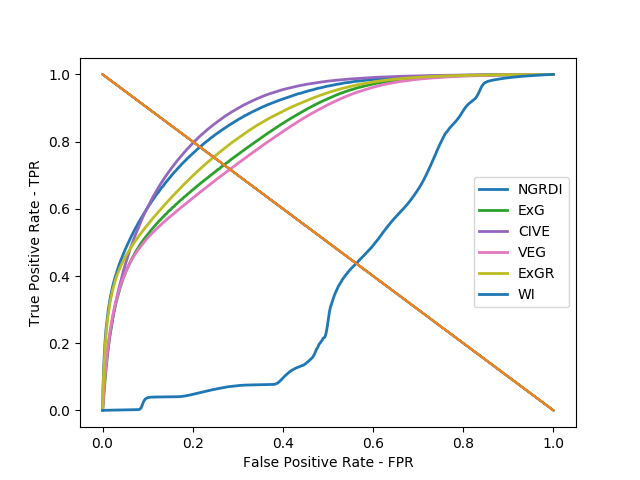
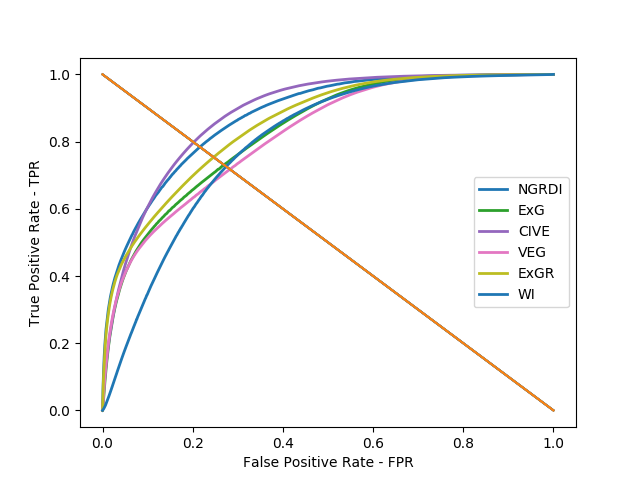
New results for WI + 1

diff --git a/src/indexExtractor.py b/src/indexExtractor.py
@@ -178,7 +178,8 @@ def process(imgs):
 		indices[0] = np.concatenate((indices[0], NGRDI.ravel()))
 		# cv2.normalize(NGRDI, NGRDI, 0.0, 255.0, cv2.NORM_MINMAX)
 		# NGRDI = np.uint8(NGRDI)
-		# cv2.imwrite("NGRDI.jpg", NGRDI)
+		# cv2.imshow("NGRDI.jpg", NGRDI)
+
 		# ExG
 		# ExG = 2*gNorm-rNorm-bNorm
 		ExG = 2*g-r-b
@@ -191,7 +192,6 @@ def process(imgs):
 		# CIVE
 		CIVE = 0.411*R - 0.881*G + 0.385*B + 18.78745
 		CIVE = 1 - cv2.normalize(CIVE, CIVE, 0.0, 1.0, cv2.NORM_MINMAX)
-		#CIVE = cv2.normalize(CIVE, CIVE, 0.0, 1.0, cv2.NORM_MINMAX)
 		indices[2] = np.concatenate((indices[2], CIVE.ravel()))
 		# cv2.normalize(CIVE, CIVE, 0.0, 255.0, cv2.NORM_MINMAX)
 		# CIVE = np.uint8(CIVE)
@@ -214,7 +214,7 @@ def process(imgs):
 		# cv2.imwrite("ExGR.jpg", ExGR)
 
 		# WI
-		WI = Utils.div0((g-b),((r-g)))
+		WI = Utils.div0((g-b),(abs(r-g)+1))
 		cv2.normalize(WI, WI, 0.0, 1.0, cv2.NORM_MINMAX)
 		indices[5] = np.concatenate((indices[5], WI.ravel()))
 		# cv2.normalize(WI, WI, 0.0, 255.0, cv2.NORM_MINMAX)

diff --git a/README.md b/README.md
@@ -20,18 +20,18 @@ No filter results
 |CIVE|0.845|0.579|0.237|0.237|0.763|
 |VEG|0.814|0.187|0.269|0.269|0.731|
 |ExGR|0.816|0.227|0.273|0.273|0.727|
-|WI|0.410|0.495|0.542|0.542|0.458|
+|WI|0.783|0.427|0.278|0.278|0.722|
 
 -------------
 |Method|AUC|EER|FAR|FRR|Accuracy|
 |:----------:|:-------------:|:------:|:------:|:------:|:------:|
-|Arithmetic Mean|0.853|0.334|0.236|0.236|0.764|
-|Geometric mean|0.848|0.010|0.240|0.240|0.760|
+|Arithmetic Mean|0.851|0.325|0.235|0.235|0.765|
+|Geometric mean|0.846|0.008|0.239|0.239|0.761|
 
 -------------
 |Method|Accuracy|
 |:----------:|:-------------:|
-|Majority|0.731|
+|Majority|0.737|
 
 
 Blur results
@@ -43,18 +43,18 @@ Blur results
 |CIVE|0.872|0.608|0.209|0.209|0.791|
 |VEG|0.851|0.287|0.246|0.246|0.754|
 |ExGR|0.878|0.328|0.214|0.214|0.786|
-|WI|0.404|0.492|0.568|0.568|0.432|
+|WI|0.806|0.429|0.265|0.265|0.735|
 
 -------------
 |Method|AUC|EER|FAR|FRR|Accuracy|
 |:----------:|:-------------:|:------:|:------:|:------:|:------:|
-|Arithmetic Mean|0.866|0.413|0.223|0.223|0.777|
-|Geometric mean|0.843|0.104|0.228|0.228|0.772|
+|Arithmetic Mean|0.884|0.397|0.209|0.209|0.791|
+|Geometric mean|0.883|0.071|0.210|0.210|0.790|
 
 -------------
 |Method|Accuracy|
 |:----------:|:-------------:|
-|Majority|0.769|
+|Majority|0.767|
 
 
 Gaussian filter results
@@ -66,18 +66,18 @@ Gaussian filter results
 |CIVE|0.867|0.599|0.216|0.216|0.784|
 |VEG|0.834|0.255|0.257|0.257|0.743|
 |ExGR|0.852|0.291|0.239|0.239|0.761|
-|WI|0.382|0.497|0.614|0.614|0.386|
+|WI|0.795|0.421|0.271|0.271|0.729|
 
 -------------
 |Method|AUC|EER|FAR|FRR|Accuracy|
 |:----------:|:-------------:|:------:|:------:|:------:|:------:|
-|Arithmetic Mean|0.875|0.383|0.217|0.217|0.783|
-|Geometric mean|0.872|0.046|0.219|0.219|0.781|
+|Arithmetic Mean|0.870|0.373|0.221|0.221|0.779|
+|Geometric mean|0.868|0.036|0.222|0.222|0.778|
 
 -------------
 |Method|Accuracy|
 |:----------:|:-------------:|
-|Majority|0.754|
+|Majority|0.753|
 
 
 Mean filter results
@@ -89,18 +89,18 @@ Mean filter results
 |CIVE|0.884|0.606|0.202|0.202|0.798|
 |VEG|0.818|0.265|0.283|0.283|0.717|
 |ExGR|0.852|0.324|0.246|0.246|0.754|
-|WI|0.406|0.495|0.563|0.563|0.437|
+|WI|0.796|0.429|0.274|0.274|0.726|
 
 -------------
 |Method|AUC|EER|FAR|FRR|Accuracy|
 |:----------:|:-------------:|:------:|:------:|:------:|:------:|
-|Arithmetic Mean|0.876|0.401|0.220|0.220|0.780|
-|Geometric mean|0.873|0.073|0.223|0.223|0.777|
+|Arithmetic Mean|0.870|0.391|0.226|0.226|0.774|
+|Geometric mean|0.868|0.059|0.227|0.227|0.773|
 
 -------------
 |Method|Accuracy|
 |:----------:|:-------------:|
-|Majority|0.749|
+|Majority|0.744|
 
 Bilateral filter results
 -------------
@@ -111,18 +111,18 @@ Bilateral filter results
 |CIVE|0.860|0.591|0.225|0.225|0.775|
 |VEG|0.808|0.197|0.278|0.278|0.722|
 |ExGR|0.817|0.231|0.274|0.274|0.726|
-|WI|0.397|0.494|0.599|0.599|0.401|
+|WI|0.784|0.421|0.276|0.276|0.724|
 
 -------------
 |Method|AUC|EER|FAR|FRR|Accuracy|
 |:----------:|:-------------:|:------:|:------:|:------:|:------:|
-|Arithmetic Mean|0.856|0.341|0.234|0.234|0.766|
-|Geometric mean|0.851|0.013|0.239|0.239|0.761|
+|Arithmetic Mean|0.856|0.331|0.232|0.232|0.768|
+|Geometric mean|0.850|0.010|0.236|0.236|0.764|
 
 -------------
 |Method|Accuracy|
 |:----------:|:-------------:|
-|Majority|0.718|
+|Majority|0.736|
 
 
 
@@ -186,18 +186,18 @@ No filter results
 |CIVE|0.838|0.559|0.236|0.236|0.764|
 |VEG|0.783|0.274|0.289|0.289|0.711|
 |ExGR|0.777|0.374|0.302|0.302|0.698|
-|WI|0.405|0.501|0.599|0.599|0.401|
+|WI|0.835|0.399|0.231|0.231|0.769|
 
 -------------
 |Method|AUC|EER|FAR|FRR|Accuracy|
 |:----------:|:-------------:|:------:|:------:|:------:|:------:|
-|Arithmetic Mean|0.819|0.406|0.260|0.260|0.740|
-|Geometric mean|0.818|0.084|0.261|0.261|0.739|
+|Arithmetic Mean|0.842|0.391|0.241|0.241|0.759|
+|Geometric mean|0.839|0.058|0.244|0.244|0.756|
 
 -------------
 |Method|Accuracy|
 |:----------:|:-------------:|
-|Majority|0.741|
+|Majority|0.751|
 
 Blur results
 -------------
@@ -208,18 +208,18 @@ Blur results
 |CIVE|0.853|0.573|0.220|0.220|0.780|
 |VEG|0.853|0.367|0.225|0.225|0.775|
 |ExGR|0.860|0.462|0.212|0.212|0.788|
-|WI|0.359|0.498|0.648|0.648|0.352|
+|WI|0.813|0.418|0.252|0.252|0.748|
 
 -------------
 |Method|AUC|EER|FAR|FRR|Accuracy|
 |:----------:|:-------------:|:------:|:------:|:------:|:------:|
-|Arithmetic Mean|0.879|0.469|0.193|0.193|0.807|
-|Geometric mean|0.879|0.320|0.194|0.194|0.806|
+|Arithmetic Mean|0.881|0.457|0.193|0.193|0.807|
+|Geometric mean|0.882|0.261|0.193|0.193|0.807|
 
 -------------
 |Method|Accuracy|
 |:----------:|:-------------:|
-|Majority|0.807|
+|Majority|0.801|
 
 
 Gaussian filter results
@@ -231,18 +231,18 @@ Gaussian filter results
 |CIVE|0.848|0.573|0.225|0.225|0.775|
 |VEG|0.840|0.338|0.238|0.238|0.762|
 |ExGR|0.840|0.432|0.240|0.240|0.760|
-|WI|0.375|0.504|0.637|0.637|0.363|
+|WI|0.820|0.409|0.247|0.247|0.753|
 
 -------------
 |Method|AUC|EER|FAR|FRR|Accuracy|
 |:----------:|:-------------:|:------:|:------:|:------:|:------:|
-|Arithmetic Mean|0.868|0.449|0.209|0.209|0.791|
-|Geometric mean|0.868|0.221|0.209|0.209|0.791|
+|Arithmetic Mean|0.874|0.436|0.204|0.204|0.796|
+|Geometric mean|0.874|0.169|0.204|0.204|0.796|
 
 -------------
 |Method|Accuracy|
 |:----------:|:-------------:|
-|Majority|0.788|
+|Majority|0.789|
 
 
 
@@ -255,18 +255,18 @@ Mean filter results
 |CIVE|0.851|0.584|0.223|0.223|0.777|
 |VEG|0.838|0.362|0.238|0.238|0.762|
 |ExGR|0.845|0.454|0.226|0.226|0.774|
-|WI|0.396|0.502|0.653|0.654|0.346|
+|WI|0.826|0.426|0.240|0.240|0.760|
 
 -------------
 |Method|AUC|EER|FAR|FRR|Accuracy|
 |:----------:|:-------------:|:------:|:------:|:------:|:------:|
-|Arithmetic Mean|0.871|0.467|0.200|0.200|0.800|
-|Geometric mean|0.872|0.309|0.201|0.201|0.799|
+|Arithmetic Mean|0.876|0.456|0.199|0.199|0.801|
+|Geometric mean|0.876|0.255|0.199|0.199|0.801|
 
 -------------
 |Method|Accuracy|
 |:----------:|:-------------:|
-|Majority|0.795|
+|Majority|0.796|
 
 
 
@@ -279,18 +279,18 @@ Bilateral filter results
 |CIVE|0.843|0.567|0.230|0.230|0.770|
 |VEG|0.796|0.288|0.282|0.282|0.718|
 |ExGR|0.793|0.380|0.293|0.293|0.707|
-|WI|0.381|0.499|0.595|0.595|0.405|
+|WI|0.830|0.399|0.239|0.239|0.761|
 
 -------------
 |Method|AUC|EER|FAR|FRR|Accuracy|
 |:----------:|:-------------:|:------:|:------:|:------:|:------:|
-|Arithmetic Mean|0.831|0.414|0.253|0.253|0.747|
-|Geometric mean|0.830|0.103|0.253|0.253|0.747|
+|Arithmetic Mean|0.850|0.401|0.235|0.235|0.765|
+|Geometric mean|0.847|0.074|0.237|0.237|0.763|
 
 -------------
 |Method|Accuracy|
 |:----------:|:-------------:|
-|Majority|0.752|
+|Majority|0.756|
 
 ------------------
 
